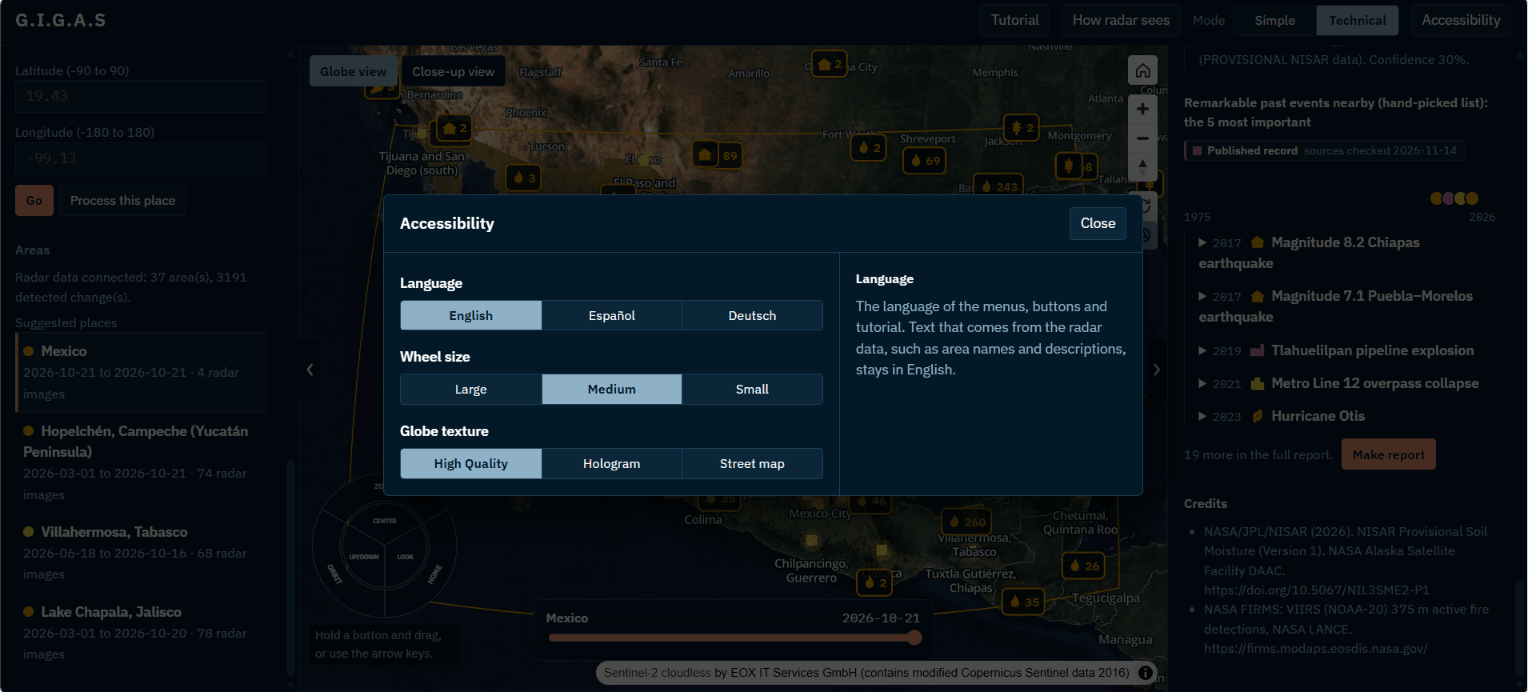
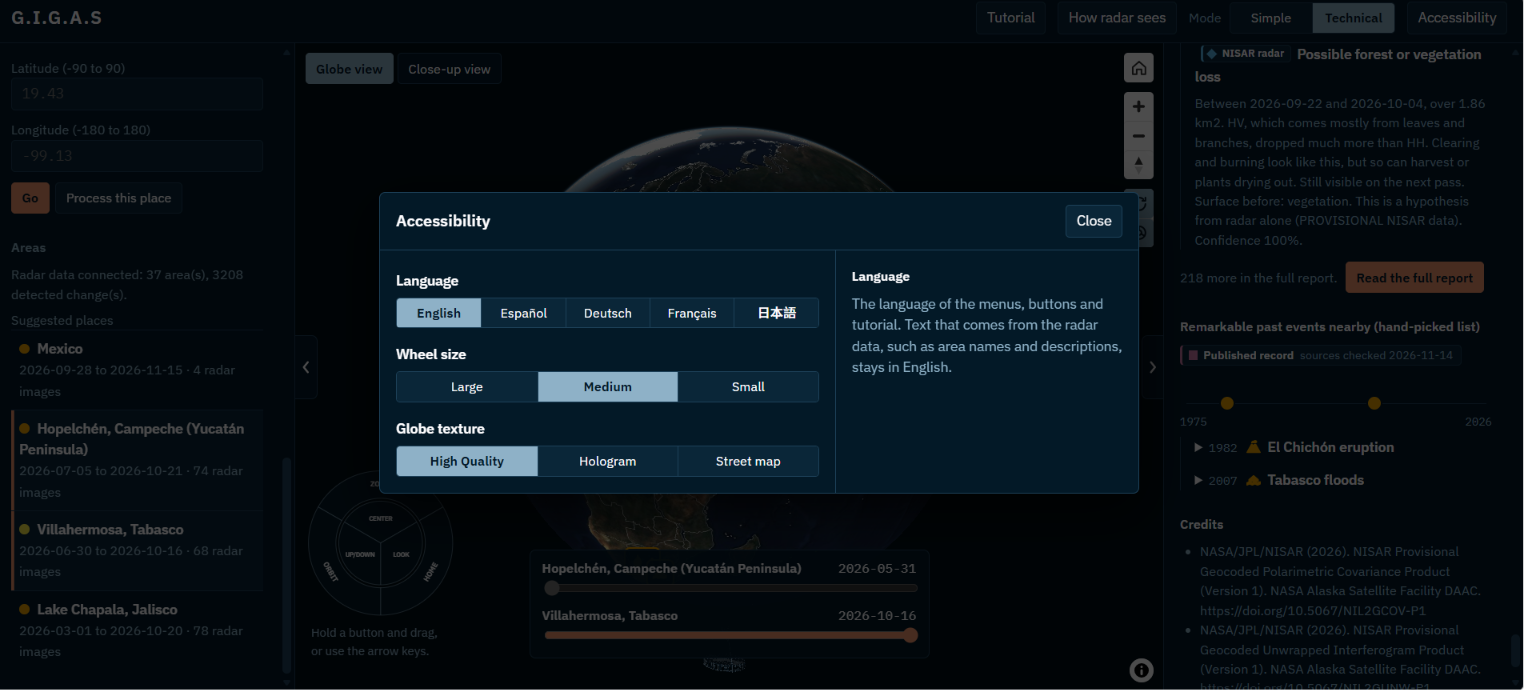
docs: update accessibility menu screenshot in README

diff --git a/README.md b/README.md
@@ -279,7 +279,7 @@ button tab.
 - **Honesty notices**: a banner whenever example places or synthetic test data are on screen.
 
 <p align="center">
-  <img src="images/accessibility-menu-v2.png" alt="The accessibility menu: language (English, Español, Deutsch), wheel size (Large, Medium, Small) and globe texture (High Quality, Hologram, Street map), with a note that text from the radar data stays in English" width="800">
+  <img src="images/accessibility-menu-v2.png" alt="The accessibility menu: language (English, Español, Deutsch, Français, 日本語), wheel size (Large, Medium, Small) and globe texture (High Quality, Hologram, Street map), with a note that text from the radar data stays in English" width="800">
 </p>
 <p align="center">The accessibility menu: language, wheel size and globe look.</p>
 
